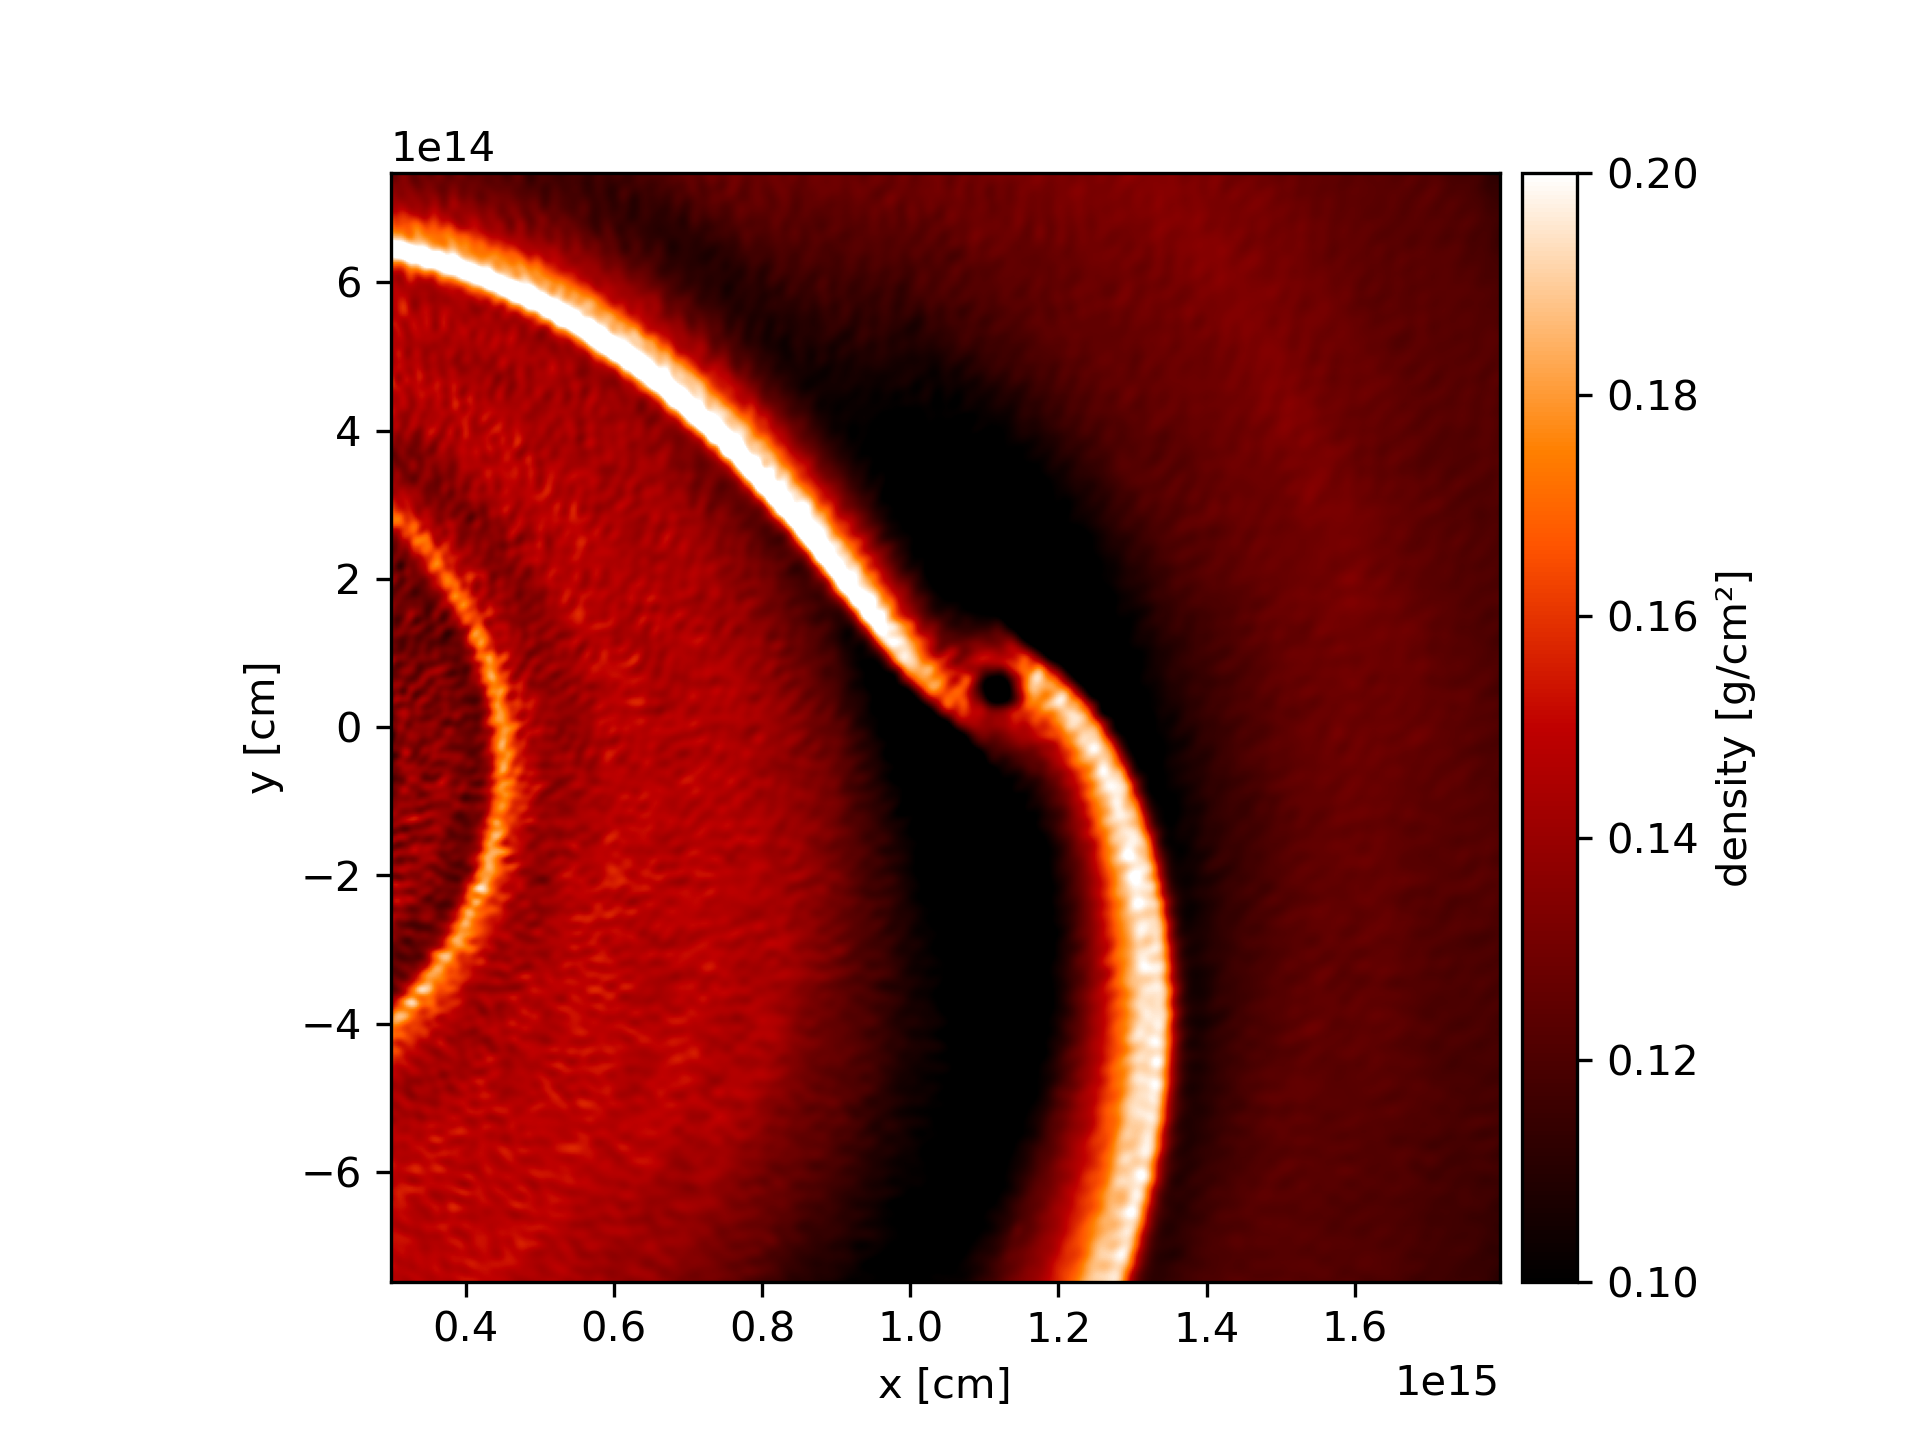
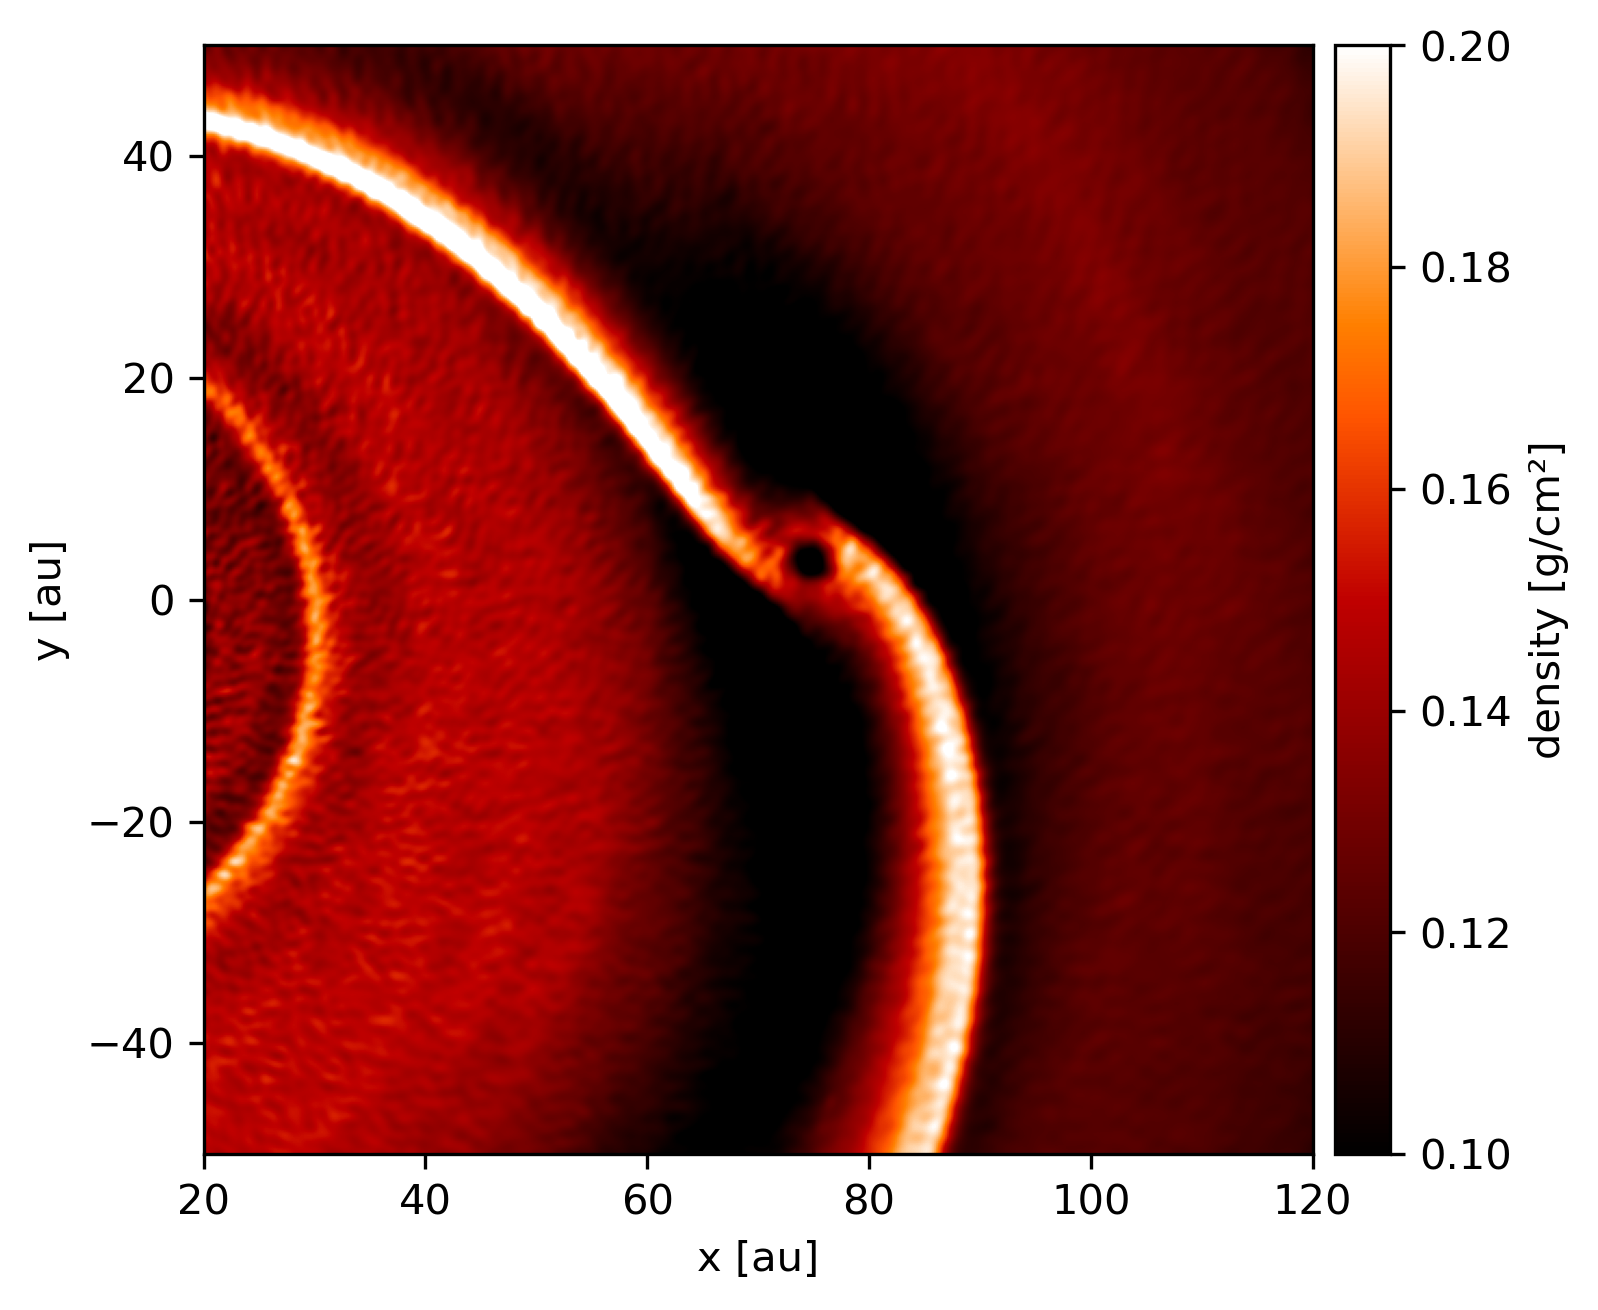
Update docs

diff --git a/docs/source/overview.rst b/docs/source/overview.rst
@@ -72,13 +72,13 @@ You can access arrays by their name passed in as a string.
 .. code-block:: pycon
 
     >>> snap['position']
-    array([[-3.69505001e+14,  7.42032967e+14, -7.45096980e+13],
-           [-1.63052677e+15,  1.16308971e+15,  1.92879212e+14],
-           [-7.66283930e+14,  1.62532232e+15,  2.34302988e+13],
+    array([[-3.69505001e+12,  7.42032967e+12, -7.45096980e+11],
+           [-1.63052677e+13,  1.16308971e+13,  1.92879212e+12],
+           [-7.66283930e+12,  1.62532232e+13,  2.34302988e+11],
            ...,
-           [ 1.39571712e+15, -1.16179990e+15,  8.09090354e+13],
-           [ 9.53716176e+14,  9.98500386e+14,  4.93933367e+13],
-           [ 1.21421196e+14,  2.08618956e+15,  1.12998892e+14]]) <Unit('centimeter')>
+           [ 1.39571712e+13, -1.16179990e+13,  8.09090354e+11],
+           [ 9.53716176e+12,  9.98500386e+12,  4.93933367e+11],
+           [ 1.21421196e+12,  2.08618956e+13,  1.12998892e+12]]) <Unit('meter')>
 
 There may be a small delay as the data is read from file. After the array is
 read from file it is cached in memory, so that subsequent calls are faster.
@@ -137,13 +137,13 @@ to use the name `'coordinate'` rather than `'position',` use the
 
     >>> snap.add_alias(name='position', alias='coordinate')
     >>> snap['coordinate']
-    array([[-3.69505001e+14,  7.42032967e+14, -7.45096980e+13],
-           [-1.63052677e+15,  1.16308971e+15,  1.92879212e+14],
-           [-7.66283930e+14,  1.62532232e+15,  2.34302988e+13],
+    array([[-3.69505001e+12,  7.42032967e+12, -7.45096980e+11],
+           [-1.63052677e+13,  1.16308971e+13,  1.92879212e+12],
+           [-7.66283930e+12,  1.62532232e+13,  2.34302988e+11],
            ...,
-           [ 1.39571712e+15, -1.16179990e+15,  8.09090354e+13],
-           [ 9.53716176e+14,  9.98500386e+14,  4.93933367e+13],
-           [ 1.21421196e+14,  2.08618956e+15,  1.12998892e+14]]) <Unit('centimeter')>
+           [ 1.39571712e+13, -1.16179990e+13,  8.09090354e+11],
+           [ 9.53716176e+12,  9.98500386e+12,  4.93933367e+11],
+           [ 1.21421196e+12,  2.08618956e+13,  1.12998892e+12]]) <Unit('meter')>
 
 The :py:class:`Snap` object has a :py:attr:`properties` attribute which is a
 dictionary of metadata, i.e. non-array data, on the snapshot.
@@ -163,19 +163,26 @@ dictionary of metadata, i.e. non-array data, on the snapshot.
      'smoothing_length_factor',
      'time']
 
-Units are available. We make use of the Python units library Pint.
+Units are available. We make use of the Python units library Pint. The code
+units of the data are available.
 
 .. code-block:: pycon
 
-    >>> snap.units['length']
-    14960000000000.0 <Unit('centimeter')>
+    >>> snap.code_units['length']
+    149600000000.0 <Unit('meter')>
+
 
 Sink particles are handled separately from the fluid, e.g. gas or dust,
 particles. They are available as an attribute.
 
 .. code-block:: pycon
 
-    >>> snap.sinks.available_arrays()
+    >>> snap.sinks
+    <plonk.snap sinks>
+
+    >>> sinks = snap.sinks
+
+    >>> sinks.available_arrays()
     ('accretion_radius',
      'last_injection_time',
      'mass',
@@ -185,12 +192,9 @@ particles. They are available as an attribute.
      'spin',
      'velocity')
 
-    >>> snap.sinks
-    <plonk.snap sinks>
-
-    >>> snap.sinks['spin']
-    array([[ 3.56866999e+43, -1.17910663e+44,  2.44598074e+47],
-           [ 4.14083556e+43,  1.19118555e+43,  2.62569386e+46]]) <Unit('centimeter ** 2 * gram / second')>
+    >>> sinks['spin']
+    array([[ 3.56866999e+36, -1.17910663e+37,  2.44598074e+40],
+           [ 4.14083556e+36,  1.19118555e+36,  2.62569386e+39]]) <Unit('kilogram * meter ** 2 / second')>
 
 
 ~~~~~~~~~~
@@ -296,40 +300,35 @@ does. For the technical details, see Price (2007), `PASA, 24, 3, 159
 numerical method as Splash, with the Python function compiled with Numba so it
 has the same performance as the Fortran code.
 
-You can use the :py:func:`visualize.plot` function to interpolate a quantity
+You can use the :py:func:`visualize.image` function to interpolate a quantity
 to a pixel grid to show as an image. For example, in the following we produce a
 plot of column density, i.e. a projection plot.
 
 .. code-block:: pycon
 
-    >>> ax = snap.image(quantity='density')
+    >>> snap.image(quantity='density')
 
 .. figure:: _static/density.png
 
     The total column density.
 
 This produces an image via Matplotlib. The function returns a Matplotlib
-:py:class:`image.AxesImage` object. We can use that to manipulate the figure.
-For example, we can change the colorbar limits.
-
-.. code-block:: pycon
-
-    >>> ax.images[0].set_clim(vmax=0.15)
+:py:class:`AxesSubplot` object.
 
 Alternatively, you can pass keyword arguments to the matplotlib functions. For
-example, we set the colormap to 'gist_heat' and set the colorbar minimum and
-maxiumum. In addition, we set the extent, i.e. the x- and y-limits.
+example, we set the units, the colormap to 'gist_heat' and set the colorbar
+minimum and maxiumum. In addition, we set the extent, i.e. the x- and y-limits.
 
 .. code-block:: pycon
 
-    >>> au = plonk.units['au']
-    >>> g_cm_2 = plonk.units['g/cm^2']
+    >>> units = {'position': 'au', 'density': 'g/cm^3', 'projection': 'cm'}
     >>> snap.image(
     ...     quantity='density',
-    ...     extent=(20, 120, -50, 50) * au,
+    ...     extent=(20, 120, -50, 50),
+    ...     units=units,
     ...     cmap='gist_heat',
-    ...     vmin=0.1 * g_cm_2,
-    ...     vmax=0.2 * g_cm_2,
+    ...     vmin=0.1,
+    ...     vmax=0.2,
     ... )
 
 .. figure:: _static/density_zoom.png
@@ -337,7 +336,7 @@ maxiumum. In addition, we set the extent, i.e. the x- and y-limits.
     The column density zoomed around the planet.
 
 More fine-grained control can be achieved by using the full details of
-:py:func:`visualize.plot`. See the API for more details.
+:py:func:`visualize.image`. See the API for more details.
 
 --------------------
 Analysis of SPH data
@@ -367,11 +366,12 @@ You can access arrays on the :py:class:`SubSnap` objects as for any
 .. code-block:: pycon
 
     >>> gas['mass']
-    array([1.9891e+24, 1.9891e+24, 1.9891e+24, ..., 1.9891e+24, 1.9891e+24,
-           1.9891e+24]) <Unit('gram')>
+    array([1.9891e+21, 1.9891e+21, 1.9891e+21, ..., 1.9891e+21, 1.9891e+21,
+           1.9891e+21]) <Unit('kilogram')>
+
     >>> dust['mass']
-    array([1.9891e+23, 1.9891e+23, 1.9891e+23, ..., 1.9891e+23, 1.9891e+23,
-           1.9891e+23]) <Unit('gram')>
+    array([1.9891e+20, 1.9891e+20, 1.9891e+20, ..., 1.9891e+20, 1.9891e+20,
+           1.9891e+20]) <Unit('kilogram')>
 
 Let's plot the gas and dust side-by-side.
 
@@ -445,8 +445,8 @@ You can create a new, derived array on the particles as follows.
 
     >>> snap['rad'] = np.sqrt(snap['x'] ** 2 + snap['y'] ** 2)
     >>> snap['rad']
-    array([8.28943225e+14, 2.00284678e+15, 1.79690392e+15, ...,
-           1.81598604e+15, 1.38078875e+15, 2.08972008e+15]) <Unit('centimeter')>
+    array([8.28943225e+12, 2.00284678e+13, 1.79690392e+13, ...,
+           1.81598604e+13, 1.38078875e+13, 2.08972008e+13]) <Unit('meter')>
 
 Where, here, we have used the fact that Plonk knows that 'x' and 'y' refer to
 the x- and y-components of the position array.
@@ -461,8 +461,8 @@ the decorator :py:meth:`add_array`.
     ...     radius = np.hypot(snap['x'], snap['y'])
     ...     return radius
     >>> snap['radius']
-    array([8.28943225e+14, 2.00284678e+15, 1.79690392e+15, ...,
-           1.81598604e+15, 1.38078875e+15, 2.08972008e+15]) <Unit('centimeter')>
+    array([8.28943225e+12, 2.00284678e+13, 1.79690392e+13, ...,
+           1.81598604e+13, 1.38078875e+13, 2.08972008e+13]) <Unit('meter')>
 
 ~~~~~
 Units
@@ -474,8 +474,8 @@ Plonk uses Pint to set arrays to physical units.
 
     >>> snap = plonk.load_snap(filename)
     >>> snap['x']
-    array([-3.69505001e+14, -1.63052677e+15, -7.66283930e+14, ...,
-            1.39571712e+15,  9.53716176e+14,  1.21421196e+14]) <Unit('centimeter')>
+    array([-3.69505001e+12, -1.63052677e+13, -7.66283930e+12, ...,
+            1.39571712e+13,  9.53716176e+12,  1.21421196e+12]) <Unit('meter')>
 
 It is easy to convert quantities to different units as required.
 
@@ -577,35 +577,35 @@ To load a profile, simply call it.
 .. code-block:: pycon
 
     >>> prof['scale_height']
-    array([7.97124951e+12, 9.84227660e+12, 1.18761140e+13, 1.37555034e+13,
-           1.57492383e+13, 1.79386553e+13, 1.99666627e+13, 2.20898696e+13,
-           2.46311866e+13, 2.63718852e+13, 2.91092881e+13, 3.11944125e+13,
-           3.35101091e+13, 3.58479038e+13, 3.86137691e+13, 4.09731915e+13,
-           4.34677739e+13, 4.61230912e+13, 4.87471032e+13, 5.07589421e+13,
-           5.38769961e+13, 5.64068787e+13, 5.88487300e+13, 6.15197082e+13,
-           6.35591229e+13, 6.75146081e+13, 6.94786320e+13, 7.32840731e+13,
-           7.65750662e+13, 7.96047221e+13, 8.26764128e+13, 8.35658042e+13,
-           8.57126522e+13, 8.99037935e+13, 9.26761324e+13, 9.45798955e+13,
-           9.65997944e+13, 1.01555592e+14, 1.05554201e+14, 1.07641999e+14,
-           1.10797835e+14, 1.13976869e+14, 1.17181502e+14, 1.20083661e+14,
-           1.23779947e+14, 1.24785058e+14, 1.28800980e+14, 1.31290341e+14,
-           1.33602542e+14, 1.34618607e+14, 1.36220344e+14, 1.39412340e+14,
-           1.41778445e+14, 1.46713623e+14, 1.51140364e+14, 1.54496807e+14,
-           1.58327631e+14, 1.60316504e+14, 1.63374960e+14, 1.64446331e+14,
-           1.66063803e+14, 1.67890856e+14, 1.68505873e+14, 1.68507230e+14,
-           1.71353612e+14, 1.71314330e+14, 1.75704484e+14, 1.79183025e+14,
-           1.83696336e+14, 1.88823477e+14, 1.93080810e+14, 1.98301979e+14,
-           2.05279086e+14, 2.11912539e+14, 2.14224572e+14, 2.21647741e+14,
-           2.27153917e+14, 2.36605186e+14, 2.38922067e+14, 2.53901104e+14,
-           2.61297334e+14, 2.64782574e+14, 2.73832897e+14, 3.04654121e+14,
-           3.13575612e+14, 3.37636281e+14, 3.51482502e+14, 3.69591185e+14,
-           3.88308614e+14, 3.83982313e+14, 4.00147149e+14, 4.37288049e+14,
-           4.35330982e+14, 4.44686164e+14, 4.47133547e+14, 4.83307604e+14,
-           4.63783507e+14, 4.95119779e+14, 5.17961431e+14, 5.29308491e+14]) <Unit('centimeter')>
+    array([7.97124951e+10, 9.84227660e+10, 1.18761140e+11, 1.37555034e+11,
+           1.57492383e+11, 1.79386553e+11, 1.99666627e+11, 2.20898696e+11,
+           2.46311866e+11, 2.63718852e+11, 2.91092881e+11, 3.11944125e+11,
+           3.35101091e+11, 3.58479038e+11, 3.86137691e+11, 4.09731915e+11,
+           4.34677739e+11, 4.61230912e+11, 4.87471032e+11, 5.07589421e+11,
+           5.38769961e+11, 5.64068787e+11, 5.88487300e+11, 6.15197082e+11,
+           6.35591229e+11, 6.75146081e+11, 6.94786320e+11, 7.32840731e+11,
+           7.65750662e+11, 7.96047221e+11, 8.26764128e+11, 8.35658042e+11,
+           8.57126522e+11, 8.99037935e+11, 9.26761324e+11, 9.45798955e+11,
+           9.65997944e+11, 1.01555592e+12, 1.05554201e+12, 1.07641999e+12,
+           1.10797835e+12, 1.13976869e+12, 1.17181502e+12, 1.20083661e+12,
+           1.23779947e+12, 1.24785058e+12, 1.28800980e+12, 1.31290341e+12,
+           1.33602542e+12, 1.34618607e+12, 1.36220344e+12, 1.39412340e+12,
+           1.41778445e+12, 1.46713623e+12, 1.51140364e+12, 1.54496807e+12,
+           1.58327631e+12, 1.60316504e+12, 1.63374960e+12, 1.64446331e+12,
+           1.66063803e+12, 1.67890856e+12, 1.68505873e+12, 1.68507230e+12,
+           1.71353612e+12, 1.71314330e+12, 1.75704484e+12, 1.79183025e+12,
+           1.83696336e+12, 1.88823477e+12, 1.93080810e+12, 1.98301979e+12,
+           2.05279086e+12, 2.11912539e+12, 2.14224572e+12, 2.21647741e+12,
+           2.27153917e+12, 2.36605186e+12, 2.38922067e+12, 2.53901104e+12,
+           2.61297334e+12, 2.64782574e+12, 2.73832897e+12, 3.04654121e+12,
+           3.13575612e+12, 3.37636281e+12, 3.51482502e+12, 3.69591185e+12,
+           3.88308614e+12, 3.83982313e+12, 4.00147149e+12, 4.37288049e+12,
+           4.35330982e+12, 4.44686164e+12, 4.47133547e+12, 4.83307604e+12,
+           4.63783507e+12, 4.95119779e+12, 5.17961431e+12, 5.29308491e+12]) <Unit('meter')>
 
 You can convert the data in the :py:class:`Profile` object to a pandas DataFrame
 with the :py:meth:`to_dataframe` method. This takes all loaded profiles and puts
-them into the DataFrame.
+them into the DataFrame with units indicated in brackets.
 
 .. code-block:: pycon
 
@@ -618,18 +618,18 @@ them into the DataFrame.
     ... )
     >>> df = prof.to_dataframe(columns=profiles)
     >>> df
-         radius [cm]  angular_momentum_phi [rad]  angular_momentum_theta [rad]  surface_density [g / cm ** 2]  scale_height [cm]
-    0   1.638097e+14                   -0.019731                      0.049709                       0.048601       7.971250e+12
-    1   1.922333e+14                    1.914841                      0.053297                       0.063095       9.842277e+12
-    2   2.206569e+14                    1.293811                      0.055986                       0.080842       1.187611e+13
-    3   2.490805e+14                   -2.958286                      0.057931                       0.095611       1.375550e+13
-    4   2.775041e+14                   -1.947547                      0.059679                       0.109594       1.574924e+13
-    ..           ...                         ...                           ...                            ...                ...
-    95  2.864051e+15                    3.045660                      0.168944                       0.001388       4.833076e+14
-    96  2.892475e+15                   -0.054956                      0.161673                       0.001325       4.637835e+14
-    97  2.920898e+15                   -0.217485                      0.169546                       0.001106       4.951198e+14
-    98  2.949322e+15                   -1.305261                      0.175302                       0.001137       5.179614e+14
-    99  2.977746e+15                    2.642077                      0.176867                       0.001066       5.293085e+14
+          radius [m]  angular_momentum_phi [rad]  angular_momentum_theta [rad]  surface_density [kg / m ** 2]  scale_height [m]
+    0   1.638097e+12                   -0.019731                      0.049709                       0.486007      7.971250e+10
+    1   1.922333e+12                    1.914841                      0.053297                       0.630953      9.842277e+10
+    2   2.206569e+12                    1.293811                      0.055986                       0.808415      1.187611e+11
+    3   2.490805e+12                   -2.958286                      0.057931                       0.956107      1.375550e+11
+    4   2.775041e+12                   -1.947547                      0.059679                       1.095939      1.574924e+11
+    ..           ...                         ...                           ...                            ...               ...
+    95  2.864051e+13                    3.045660                      0.168944                       0.013883      4.833076e+12
+    96  2.892475e+13                   -0.054956                      0.161673                       0.013246      4.637835e+12
+    97  2.920898e+13                   -0.217485                      0.169546                       0.011058      4.951198e+12
+    98  2.949322e+13                   -1.305261                      0.175302                       0.011367      5.179614e+12
+    99  2.977746e+13                    2.642077                      0.176867                       0.010660      5.293085e+12
 
     [100 rows x 5 columns]
 
@@ -637,7 +637,7 @@ We can also plot the profiles.
 
 .. code-block:: pycon
 
-    >>> units = {'position': 'au', 'surface_density': 'g/cm^2'}
+    >>> units = {'position': 'au', 'scale_height': 'au', 'surface_density': 'g/cm^2'}
     >>> with plt.style.context('seaborn'):
     ...     fig, axs = plt.subplots(ncols=2, figsize=(12, 5))
     ...     prof.plot('radius', 'surface_density', units=units, ax=axs[0])
